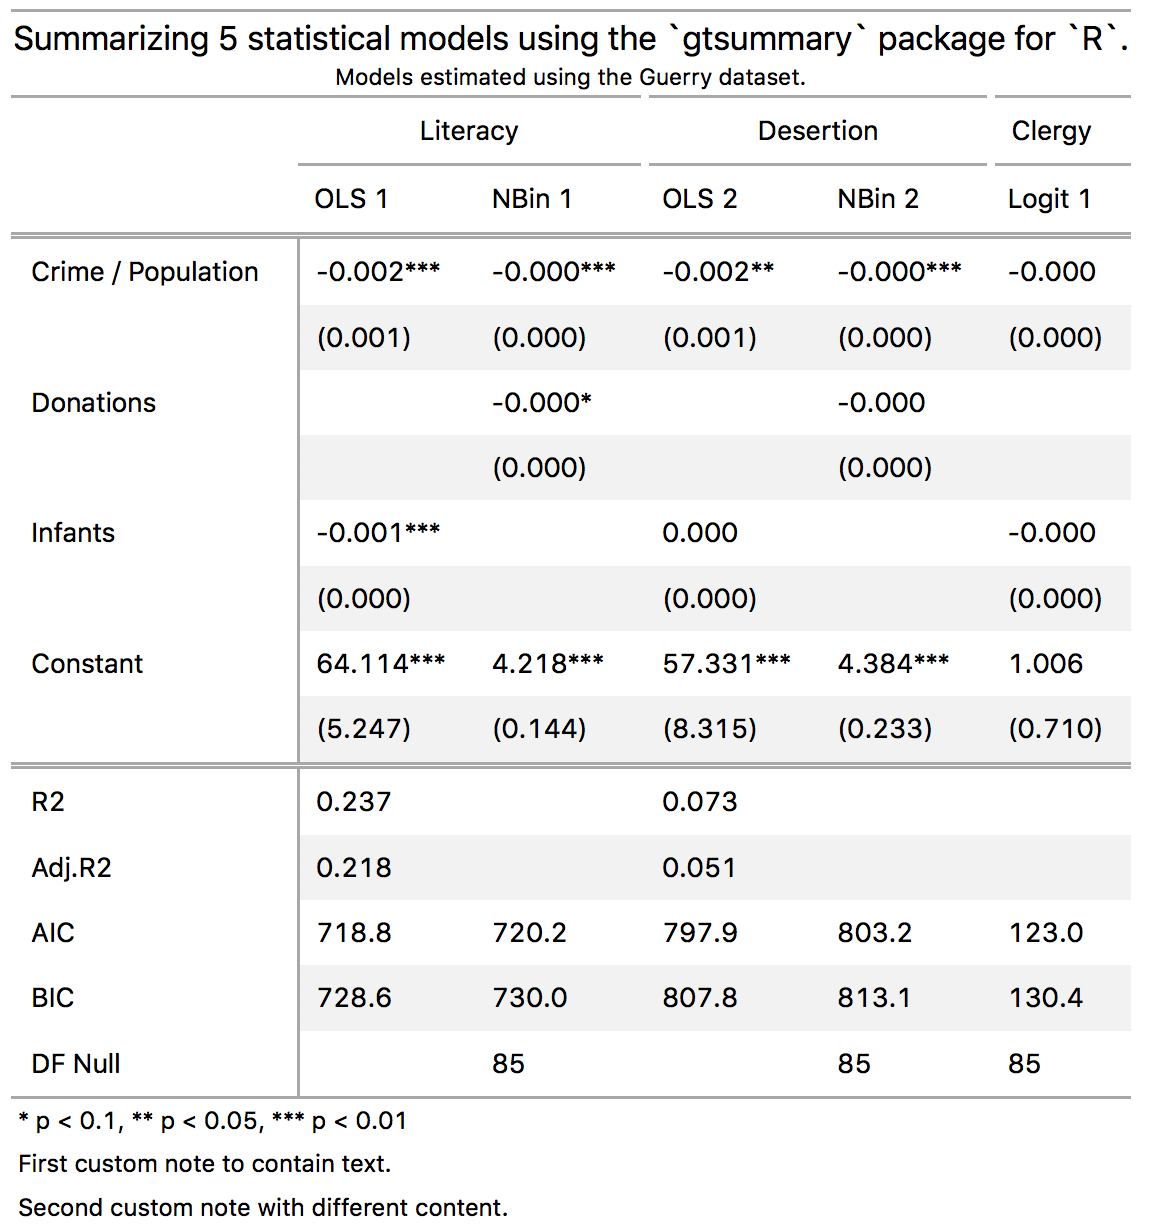
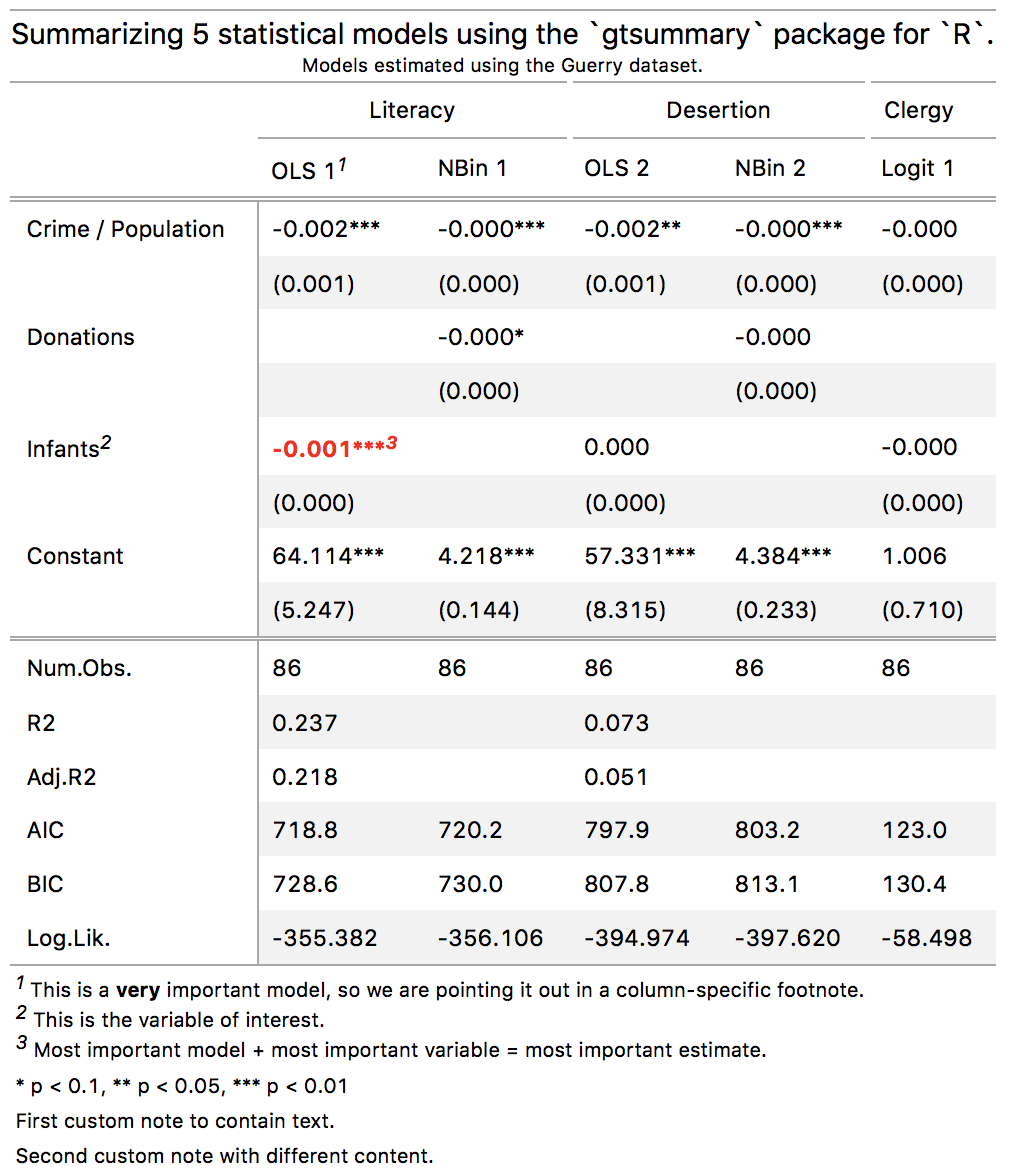
fancier complex example

diff --git a/README.md b/README.md
@@ -36,7 +36,7 @@ The `gtsummary` package for `R` produces beautiful, customizable, publication-re
 Here are a few benefits of `gtsummary` over some [alternative packages](https://github.com/vincentarelbundock/gtsummary#alternative-summary-table-packages-for-r):
 
 * Customizability
-    - Tables are endlessly customizable, thanks to the power of the [`gt` package.](https://gt.rstudio.com) In this README, you will find tables with colored cells, weird text, spanning column labels, row groups, titles and subtitles, global footnotes, cell-specific footnotes,significance stars, etc. This only scratches the surface of possibilities. For more, see [gt.rstudio.com](https://gt.rstudio.com) and the [Power Users](https://github.com/vincentarelbundock/gtsummary#power-users) section of this README.
+    - Tables are endlessly customizable, thanks to the power of the [`gt` package.](https://gt.rstudio.com) In this README, you will find tables with colored cells, weird text, spanning column labels, row groups, titles and subtitles, global footnotes, cell-specific footnotes, significance stars, etc. This only scratches the surface of possibilities. For more, see [gt.rstudio.com](https://gt.rstudio.com) and the [Power Users](https://github.com/vincentarelbundock/gtsummary#power-users) section of this README.
 * Flexibility
     - Tables can be saved to html, rtf, and LaTeX files. (Coming soon: PDF, TXT/ASCII, and more.)
 * Integration
@@ -165,6 +165,22 @@ gtsummary(models,
                        'Text of the second note.'))
 ```
 
+Add numbered footnotes to a column, a row, or a cell:
+
+```r
+library(gt)
+gtsummary(models) %>% 
+    tab_footnote(                                                                                                                                                                                  
+        footnote = md("This is a **very** important model, so we are pointing it out in a column-specific footnote."),                        
+        locations = cells_column_labels(columns = vars(`OLS 1`))) %>%  
+    tab_footnote(                                                                                                                                                                               
+        footnote = "This is the variable of interest.",                                                                                           
+        locations = cells_stub(rows = vars(Infants))) %>%                                                                                                                                      
+    tab_footnote(                                                                                                                      
+        footnote = "Most important model + most important variable = most important estimate.",
+        locations = cells_data(columns = vars(`OLS 1`), rows = vars(Infants)))
+```
+
 ## Rename, reorder, and subset
 
 ### Coefficient estimates
@@ -199,7 +215,15 @@ A more powerful mechanism is to supply a `data.frame` (or `tibble`) through the 
 3. `fmt`: a string which will be used to round/format the string in question (e.g., `"%.3f"`). This follows the same standards as the `fmt` argument in `?gtsummary`.
 4. `omit`: `TRUE` if you want the statistic to be omitted from your final table.
 
-You can see an example of a valid data frame by typing `gtsummary::gof_map`.
+You can see an example of a valid data frame by typing `gtsummary::gof_map`. This is the default data.frame that `gtsummary` uses to subset and reorder goodness-of-fit statistics. As you can see, `omit == TRUE` for quite a number of statistics. You can include setting `omit == FALSE`: 
+
+```r
+gm <- gtsummary::gof_map
+gm$omit <- FALSE
+gtsummary(models, gof_map = gm)
+```
+
+The goodness-of-fit statistics will be printed in the table in the same order as in the `gof_map` data.frame.
 
 Notice the subtle difference between `coef_map` and `gof_map`. `coef_map` works as a "white list": any coefficient not explicitly entered will be omitted from the table. `gof_map` works as a "black list": statistics need to be explicitly marked for omission.
 
@@ -292,6 +316,7 @@ gtsummary(models, add_rows = list(row1, row2))
 This is the code I used to generate the "complex" table posted at the top of this README.
 
 ```r
+library(gt)
 cm <- c('Crime_prop' = 'Crime / Population',
         'Donations' = 'Donations',
         'Infants' = 'Infants',
@@ -299,15 +324,28 @@ cm <- c('Crime_prop' = 'Crime / Population',
 gtsummary(models,
           coef_map = cm,
           stars = TRUE,
-          gof_omit = "Statistics|^p$|Deviance|Resid|Sigma|Log.Lik|^DF$",
+          gof_omit = "Deviance",
           title = 'Summarizing 5 statistical models using the `gtsummary` package for `R`.',
           subtitle = 'Models estimated using the Guerry dataset.',
           notes = c('First custom note to contain text.',
                     'Second custom note with different content.')) %>%
     # add spanning labels
-    gt::tab_spanner(label = 'Literacy', columns = c('OLS 1', 'NBin 1')) %>%
-    gt::tab_spanner(label = 'Desertion', columns = c('OLS 2', 'NBin 2')) %>%
-    gt::tab_spanner(label = 'Clergy', columns = 'Logit 1')
+    tab_spanner(label = 'Literacy', columns = c('OLS 1', 'NBin 1')) %>%
+    tab_spanner(label = 'Desertion', columns = c('OLS 2', 'NBin 2')) %>%
+    tab_spanner(label = 'Clergy', columns = 'Logit 1') %>%
+    # footnotes
+    tab_footnote(
+        footnote = md("This is a **very** important model, so we are pointing it out in a column-specific footnote."),                        
+        locations = cells_column_labels(columns = vars(`OLS 1`))) %>%  
+    tab_footnote(                                                                                                                                                                               
+        footnote = "This is the variable of interest.",                                                                                           
+        locations = cells_stub(rows = vars(Infants))) %>%                                                                                                                                      
+    tab_footnote(                                                                                                                      
+        footnote = "Most important model + most important variable = most important estimate.",
+        locations = cells_data(columns = vars(`OLS 1`), rows = vars(Infants))) %>%   
+    # color and bold
+    tab_style(style = cells_styles(text_color = "red", text_weight = "bold"),
+              locations = cells_data(columns = vars(`OLS 1`), rows = vars(Infants)))
 ```
 
 # Other useful features
